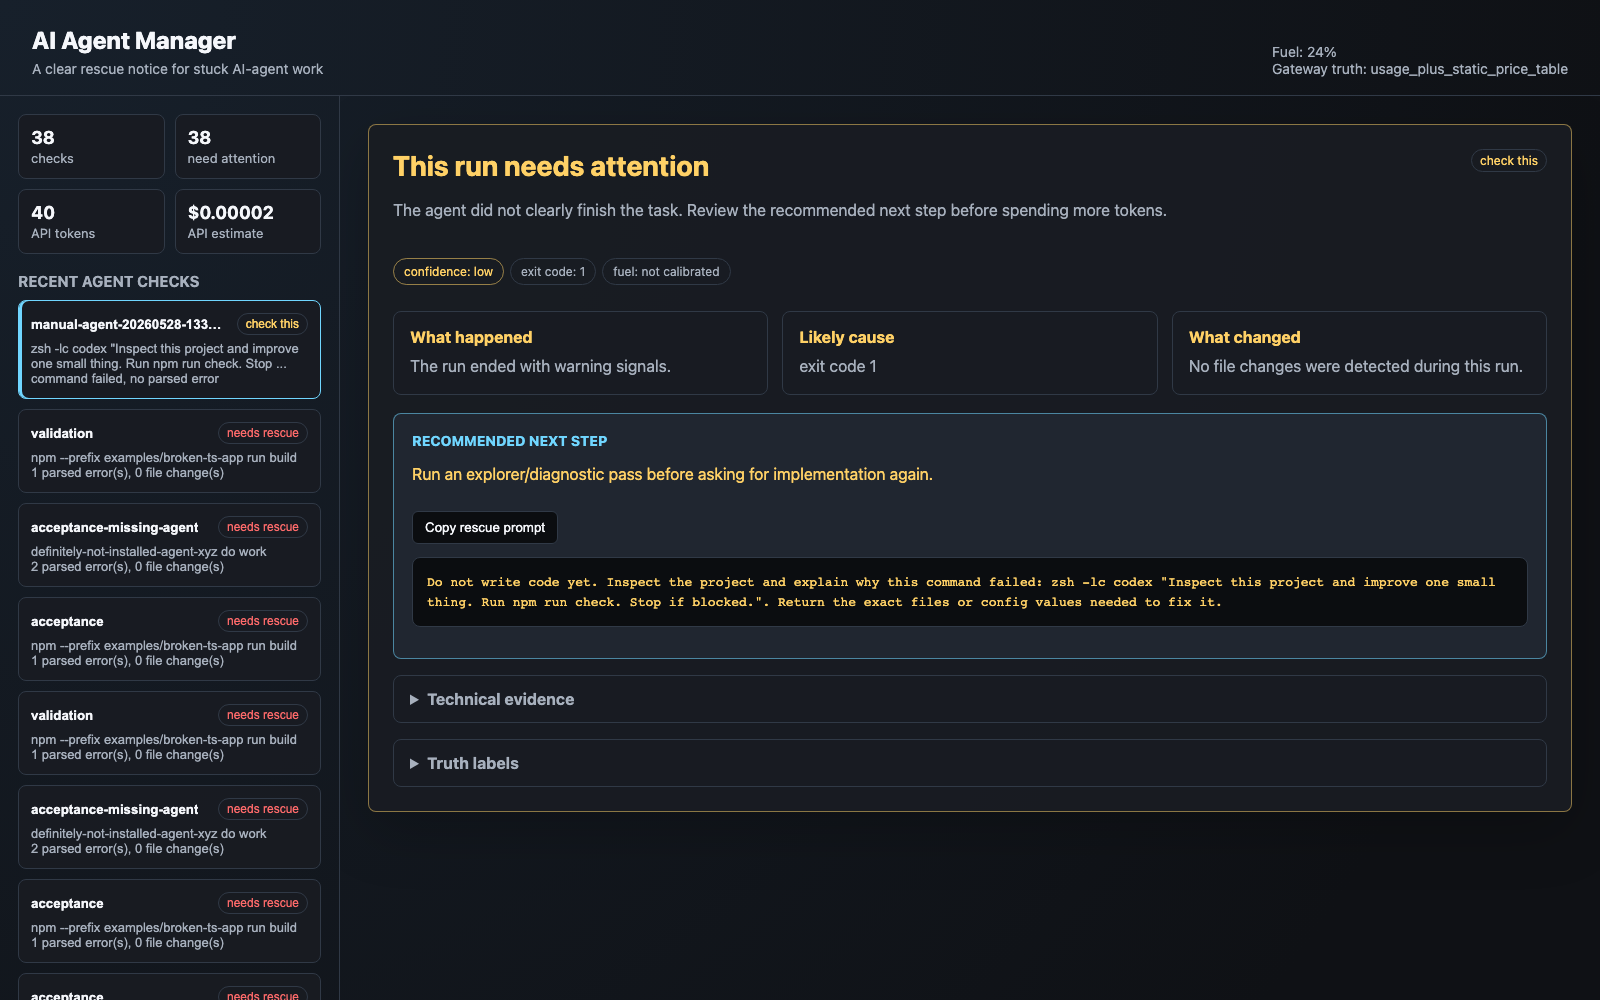
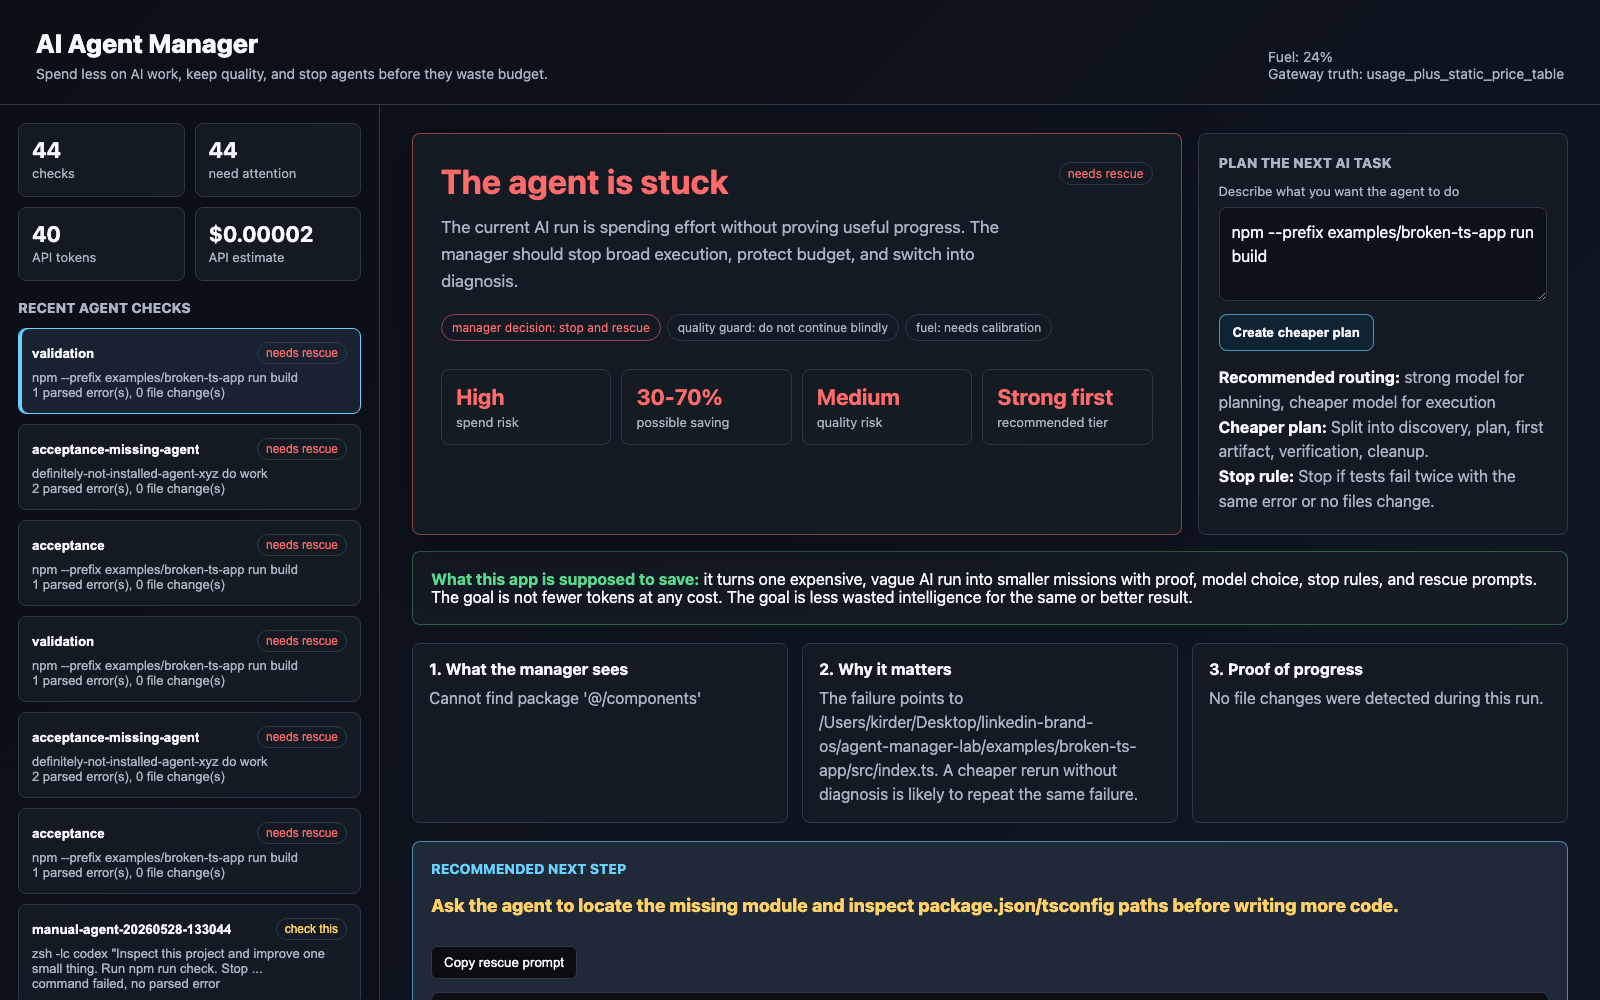
Reframe dashboard as AI efficiency manager

diff --git a/docs/product-plan.md b/docs/product-plan.md
@@ -1,25 +1,41 @@
-# Product Plan: Evidence-Based AI Agent Manager
+# Product Plan: AI Efficiency Manager
 
 ## Position
 
-AI agents need managers. This product is a control layer that makes AI-agent work accountable:
+AI users do not only need more agents. They need a manager that turns AI spend into accountable work.
+
+This product is a control layer that makes AI-agent work cheaper, safer, and easier to understand:
 
 - define mission scope before the run;
+- estimate spend and quality risk before the run;
+- route work to the right model tier;
 - observe work while it happens;
 - measure cost or subscription fuel honestly;
 - prove progress through artifacts;
 - detect stuck loops;
 - rescue the task with evidence-backed next actions.
 
+The product should feel less like an observability dashboard and more like an AI operations advisor:
+
+```text
+What are you trying to achieve?
+How should this be split?
+Which agent/model should do each part?
+How much budget might it burn?
+When should the system stop it?
+What did we learn for next time?
+```
+
 ## Build Order
 
-1. Context-Aware Rescue for coding agents.
-2. Cost/Fuel Governor.
-3. Progress Proof dashboard.
-4. OpenAI-compatible gateway.
+1. Task Planner: turn broad goals into small, verifiable missions.
+2. Context-Aware Rescue for coding agents.
+3. Cost/Fuel Governor.
+4. Progress Proof dashboard.
 5. Model Router and Model Radar.
-6. Team workspace and integrations.
-7. Optional hardware/appliance packaging.
+6. Learning Layer: remember which agents, prompts, and models worked.
+7. Team workspace and integrations.
+8. Optional hardware/appliance packaging.
 
 ## Non-Negotiables
 

diff --git a/README.md b/README.md
@@ -2,13 +2,13 @@
 
 [![CI](https://github.com/kirder24-code/ai-agent-manager/actions/workflows/ci.yml/badge.svg)](https://github.com/kirder24-code/ai-agent-manager/actions/workflows/ci.yml)
 
-**AI Agent Manager is evidence-based mission control for AI-agent work.**
+**AI Agent Manager is an AI efficiency control layer for people and companies using agents.**
 
-It helps answer the question every serious AI-agent user eventually runs into:
+It helps answer the question every serious AI user eventually runs into:
 
 > Did the agent actually move the task forward, or did it just spend tokens and look busy?
 
-This prototype focuses on coding agents such as Codex, Claude Code, Cursor-style terminal agents, and local automation scripts.
+The long-term product goal is simple: spend less on AI work without losing quality. The first proof engine focuses on coding agents such as Codex, Claude Code, Cursor-style terminal agents, and local automation scripts because code gives objective evidence: terminal output, git diff, tests, changed files, and errors.
 
 ## What Problem It Solves
 
@@ -20,19 +20,19 @@ AI agents can spend minutes, hours, or subscription limits while:
 - changing nothing, but producing a confident summary;
 - consuming API tokens or visible subscription fuel without a finished result.
 
-AI Agent Manager watches the work from outside the agent and produces a simple rescue notice:
+AI Agent Manager watches work from outside the agent and turns it into an operating decision:
 
 ```text
-What happened?
-Likely cause?
-What changed?
-Recommended next step?
-Copyable rescue prompt?
+Should this AI run continue?
+Is the spend justified by evidence?
+Which model tier should handle the next step?
+Can the task be split into cheaper verified missions?
+What rescue prompt should be used if the agent is stuck?
 ```
 
-The point is not more dashboards. The point is a clearer answer:
+The point is not another token dashboard. The point is a clearer decision:
 
-> The agent is stuck here. This is the evidence. This is the smallest next prompt to try.
+> Stop wasting budget here. This is the evidence. This is the cheapest safe next step.
 
 ![AI Agent Manager dashboard rescue notice](docs/assets/dashboard-rescue-notice.png)
 
@@ -45,6 +45,7 @@ The point is not more dashboards. The point is a clearer answer:
 - Every mission also writes a standalone `report.html` that can be opened in a browser.
 - `aim export` writes an evidence JSON packet.
 - `aim dashboard` opens a local HTML dashboard focused on the problem and next step.
+- The dashboard explains spend risk, possible savings, quality risk, recommended model tier, and a cheaper task plan.
 - `aim gateway` starts an OpenAI-compatible local gateway for API usage tracking.
 - `aim gateway --mock` demonstrates gateway behavior without an API key.
 - `AIM_DAILY_BUDGET_USD` blocks calls after a local budget threshold.

diff --git a/PRODUCT.md b/PRODUCT.md
@@ -2,19 +2,31 @@
 
 ## Status
 
-External local prototype ready for real-agent testing.
+External local prototype ready for real-agent testing. The current build is a proof engine for a broader AI efficiency product.
 
 ## What It Does
 
-AI Agent Manager is an evidence-based control layer for AI-agent work.
+AI Agent Manager is an AI efficiency control layer. It sits between a person or company and their AI agents, then helps plan, route, monitor, rescue, and learn from AI work.
+
+The commercial promise is:
+
+```text
+Spend less on AI work without losing quality.
+```
+
+The first measurable target is to reduce wasted AI sessions: broad prompts, stuck loops, repeated errors, expensive models used for cheap tasks, and agent output that cannot prove progress.
 
 It can:
 
 - preflight broad tasks before a costly agent run;
+- suggest smaller missions before spend starts;
+- explain spend risk and quality risk;
 - wrap terminal agents and commands;
 - record terminal output, exit code, git diff, changed files and parsed errors;
 - detect stuck or at-risk missions;
 - produce context-aware rescue prompts;
+- recommend whether to stop, continue, or switch into diagnosis;
+- estimate when a strong model is needed and when cheaper execution may be safe;
 - write standalone HTML mission reports;
 - calibrate visible subscription fuel percentages;
 - proxy OpenAI-compatible API traffic through a local gateway;